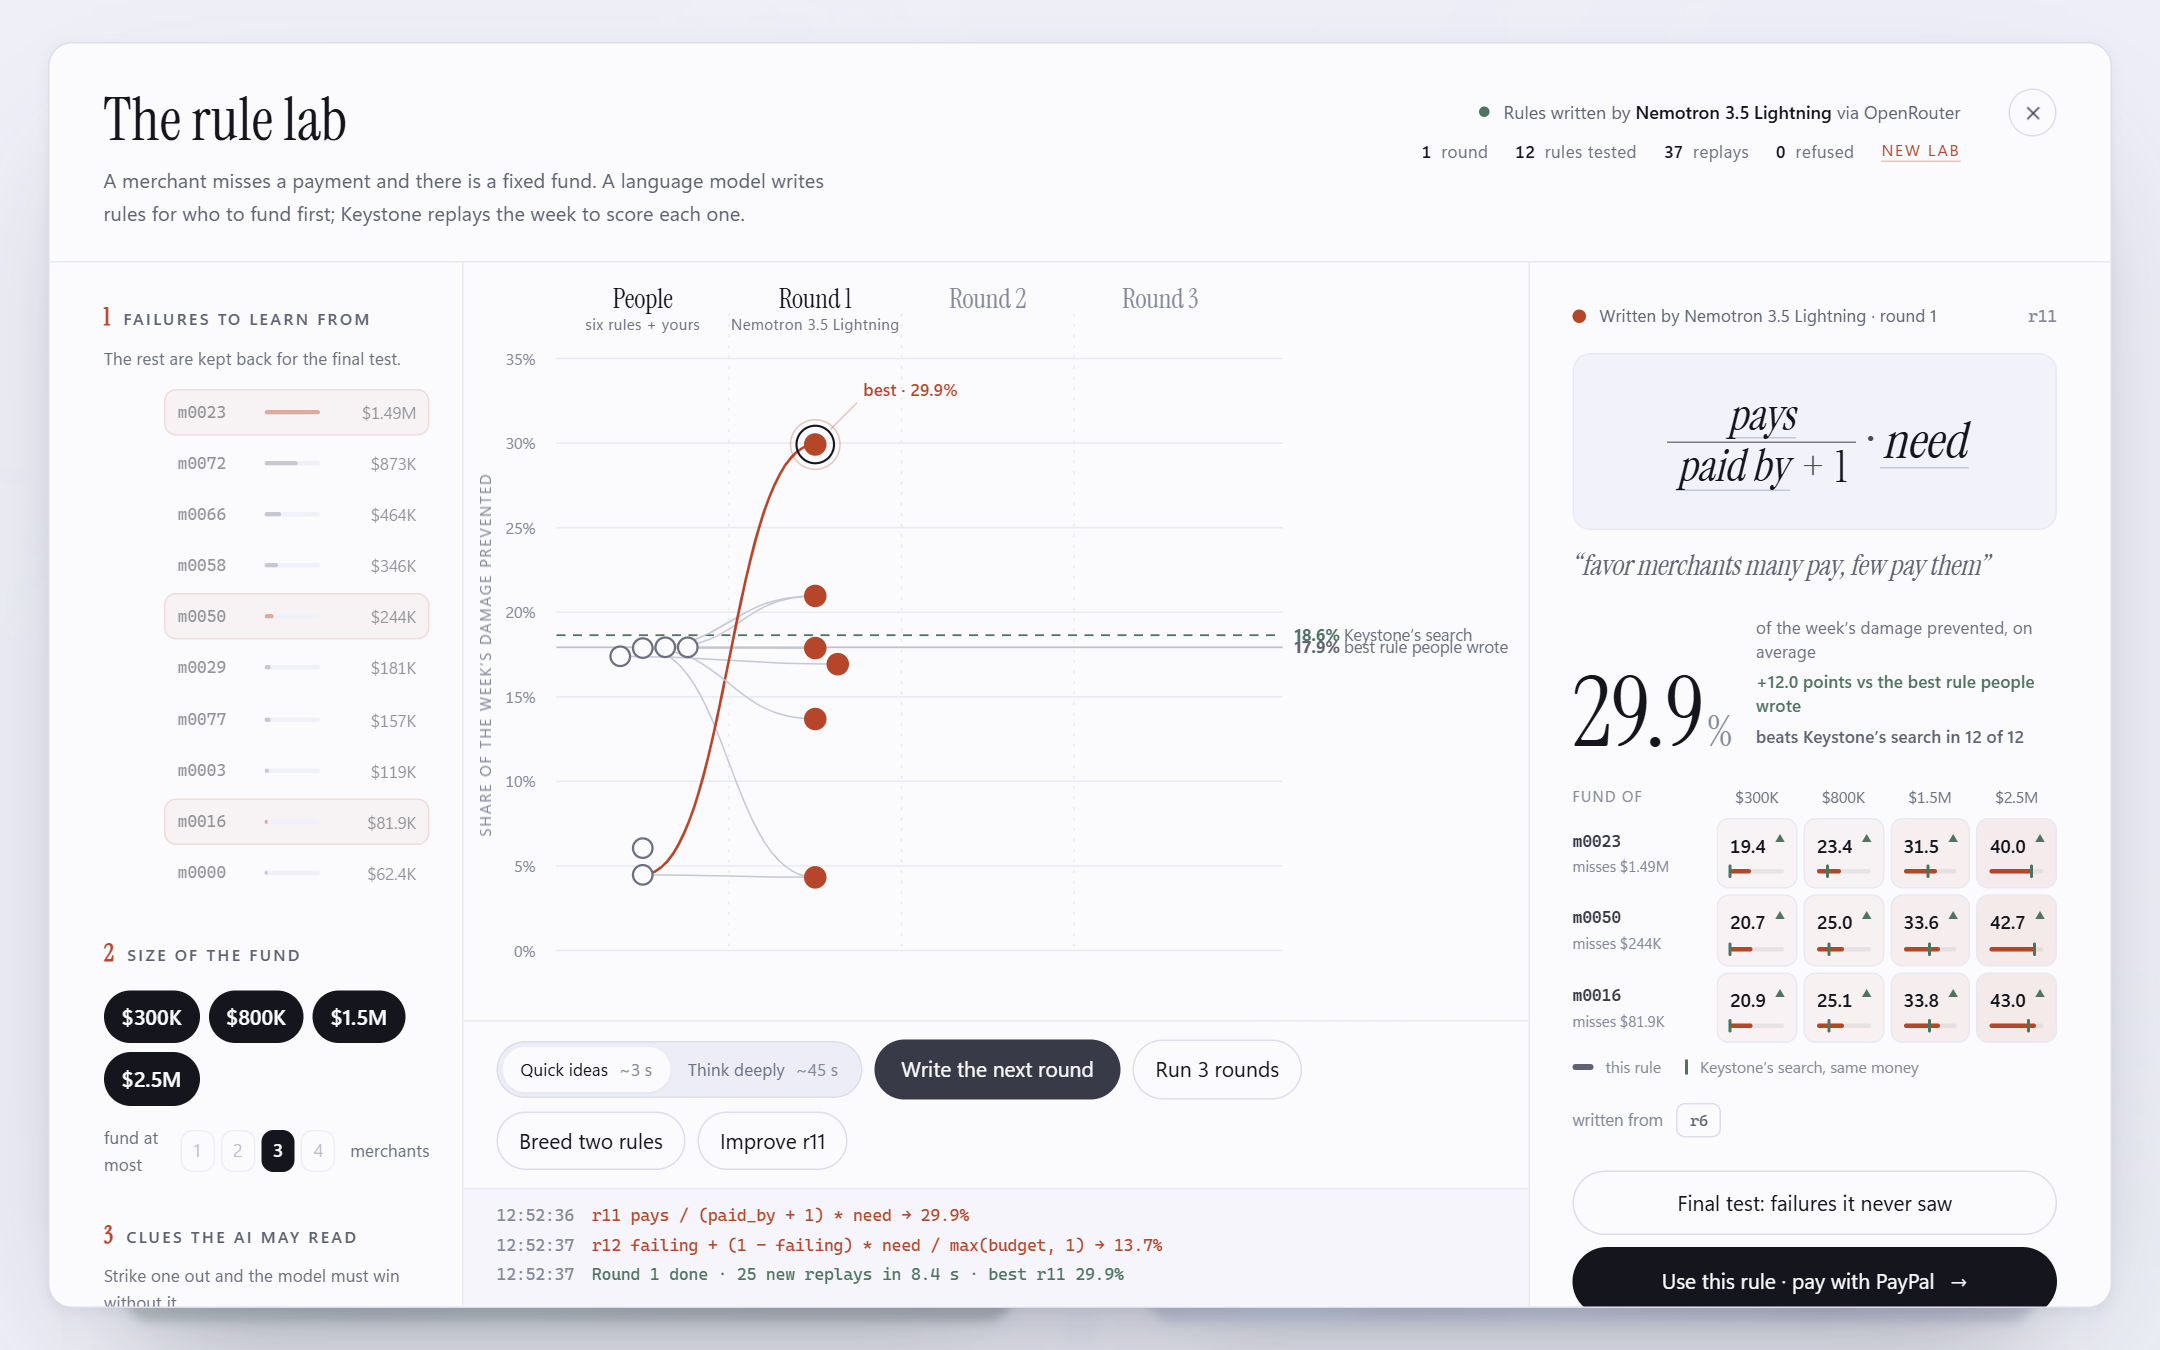
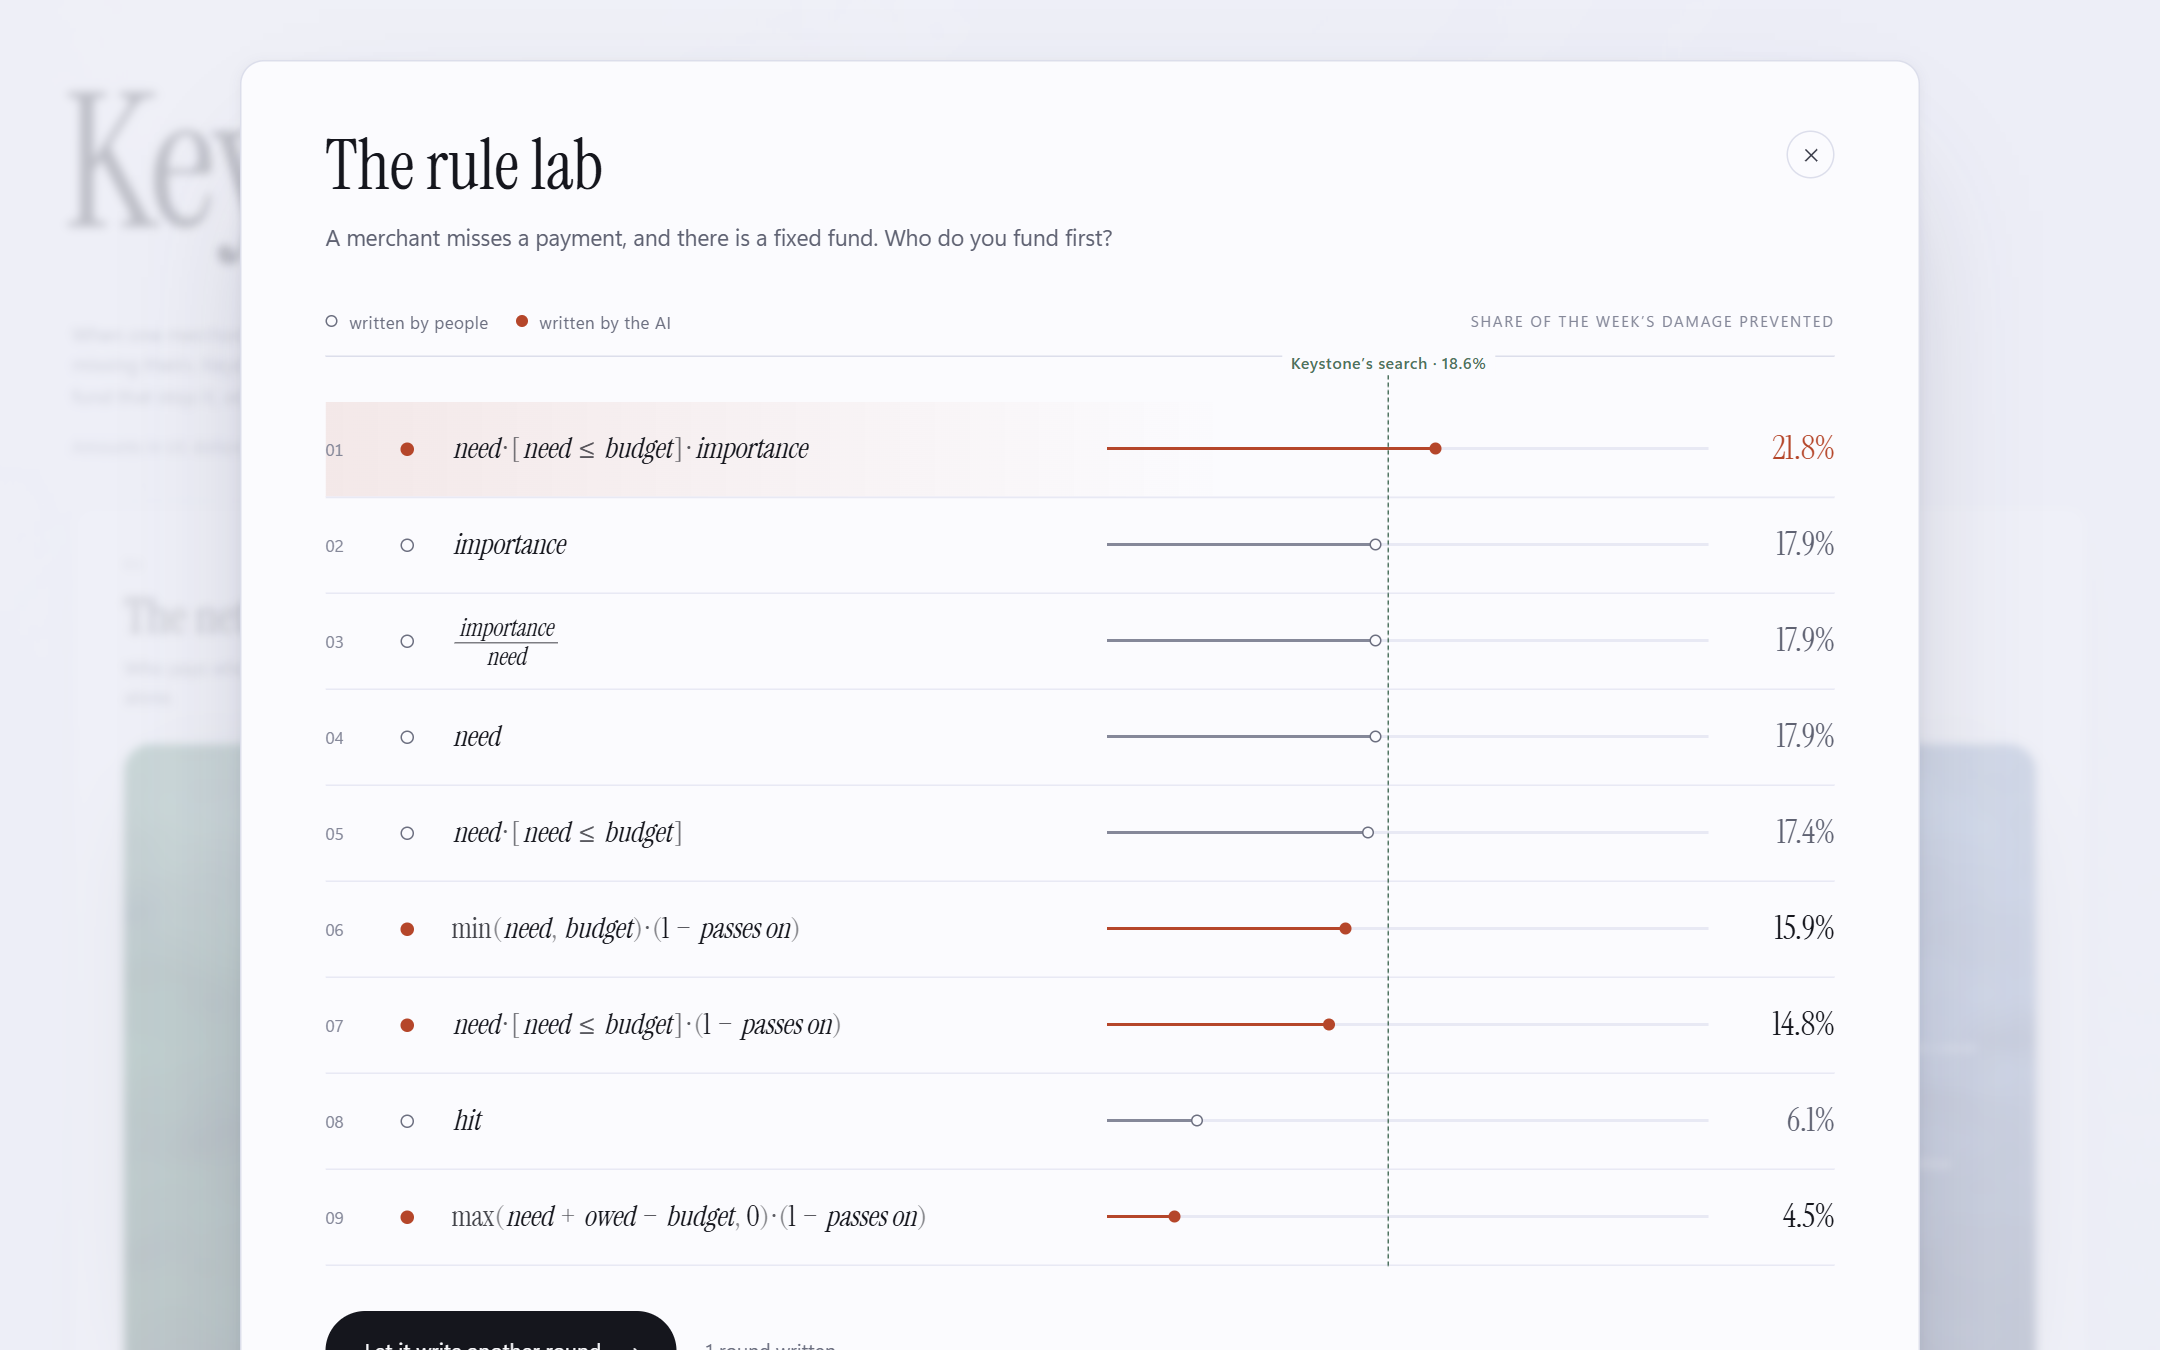
docs: README and screens for the simplified lab and the new card order

diff --git a/README.md b/README.md
@@ -65,11 +65,14 @@ rescued — in proportion to what they are short. None of the six rules people w
 looked at the shape of the network that way. The rule is readable, decides in
 about **0.2 ms instead of about 1 s**, and pays a real rescue through PayPal.
 
-**You drive it.** Choose which failures it learns from and how big the fund is;
-strike out a clue and make it win without it; write your own rule and race it;
-pick two rules and ask the model to breed them; choose *quick ideas* (~3 s) or let
-it *think deeply* (~45 s, its reasoning shown). Each run is live, so the model's
-rules differ from run to run; every one is scored the same way.
+**One button.** The lab opens on the six rules people wrote, each replayed as you
+watch. Press *Let the AI write its rules*: the AI writes a round, every new rule
+is replayed on every scenario, the board re-ranks, and it keeps going (up to three
+rounds) until it clearly leads. Then its best rule is shown with what it says,
+what it prevents, how it does on failures it never saw, whom it funds on the
+network — and a button that pays that rescue through PayPal. Each run is live, so
+the AI's rules differ from run to run; every one is scored the same way. (The API
+also lets you choose the failures, ban clues, race your own rule and breed two.)
 
 **It is safe by construction.** The model only ever returns text. Every formula
 is parsed into a whitelisted expression — numbers, clues, `+ − × ÷`, `min`, `max`,
@@ -155,10 +158,10 @@ doctor` lists anything still missing.
 
 | | |
 | --- | --- |
-| ![The landing: six cards](docs/screens/01-landing.png) | ![Let a rule decide a rescue, then pay with PayPal](docs/screens/03-pay-with-paypal.png) |
-| **The landing.** The network, what breaks, who to fund, the payout, the proof — and the rule lab. | **From rule to payout.** The rule decides; the plan is replayed against the search; a person approves; PayPal pays. |
-| ![What we checked](docs/screens/04-what-we-checked.png) | |
-| **What we checked.** Three claims with their pass counts, and what we can't promise. | |
+| ![The landing: six cards](docs/screens/01-landing.png) | ![The AI's winning rule, and whom it funds on the network](docs/screens/05-the-winner.png) |
+| **The landing.** The network, what breaks, who to fund, the rule lab, the payout, the proof. | **The winner.** The AI's rule, what it prevents against people and the search, and whom it funds on the network. |
+| ![Pay the AI's rescue with PayPal](docs/screens/03-pay-with-paypal.png) | ![What we checked](docs/screens/04-what-we-checked.png) |
+| **Pay it.** The rule's plan beside the search's, then a person approves and PayPal pays. | **What we checked.** Three claims with their pass counts, and what we can't promise. |
 
 ## Under the hood
 

diff --git a/frontend/README.md b/frontend/README.md
@@ -1,6 +1,7 @@
 # Keystone — the page
 
-One page: a question box, then five cards that answer it.
+One page: six cards, in the order the story runs. Each card is a picture; the
+numbers are one click away.
 
 ![The landing](../docs/screens/01-landing.png)
 
@@ -9,12 +10,13 @@ One page: a question box, then five cards that answer it.
 | **01 The network** | Who pays whom, learned from payments alone | Every merchant and link, the ones the rest lean on |
 | **02 What breaks** | One missed payment, and who else it reaches | Each merchant hit, when, and how badly; pull any merchant yourself |
 | **03 Who to fund** | The fewest dollars that keep the most payments on time | The plan, the rescues it beat, and what waiting costs |
-| **04 Pay with PayPal** | The payout a person approves | Review → sign → pay in the PayPal sandbox, then the ledger PayPal's webhooks fill |
-| **05 What we checked** | Three claims and their pass counts | What we can't promise, how well it learned, every check |
-| **06 The rule lab** | People's best rule, Keystone's search, the AI's best rule | A language model writes rules for who to fund first; each is replayed on every scenario as you watch; breed, race your own, test on unseen failures, pay with PayPal |
+| **04 The rule lab** | A family tree of rules, ending in the one the AI wrote | The race: people's rules against the AI's, each replayed as you watch; the winner, whom it funds, and its PayPal payout |
+| **05 Pay with PayPal** | The payout a person approves | Review → sign → pay in the PayPal sandbox, then the ledger PayPal's webhooks fill |
+| **06 The proof** | An engraved seal and how many checks pass | Three claims, what we can't promise, how well it learned, every check |
 
-The lab streams its work: each rule appears on its parent in the family tree and
-moves to its score as each scenario's replay lands. Code: `src/lab/`.
+The lab streams its work: each rule the AI writes enters the race at the foot,
+its bar grows as each scenario's replay lands, and it slides to its place.
+Code: `src/lab/`.
 
 ## Run it
 
